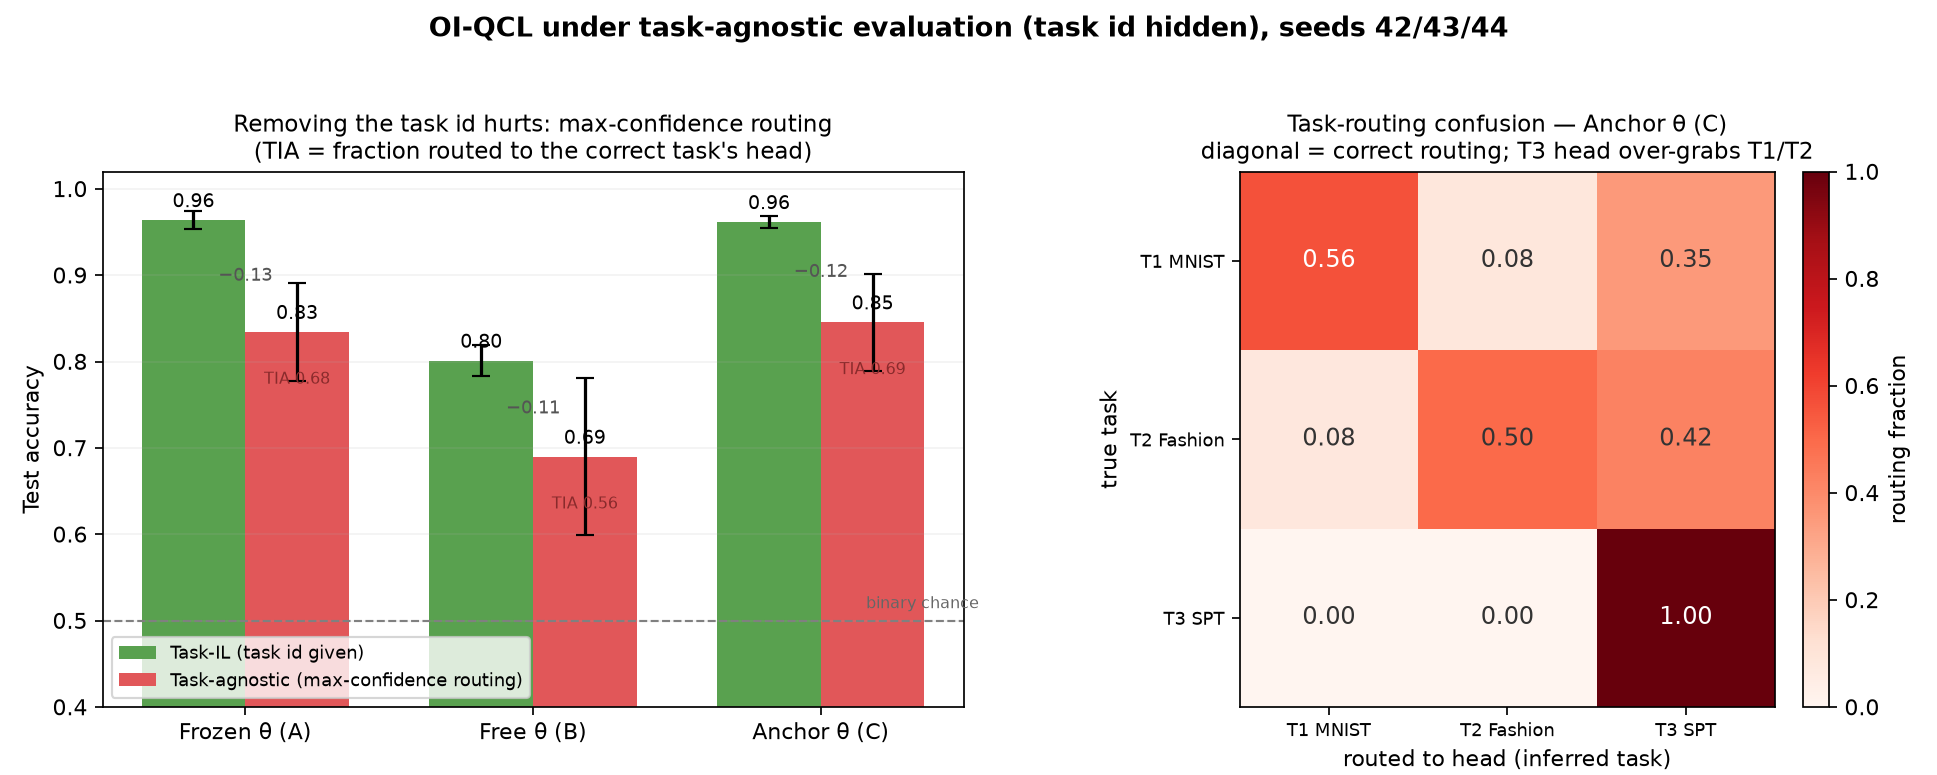
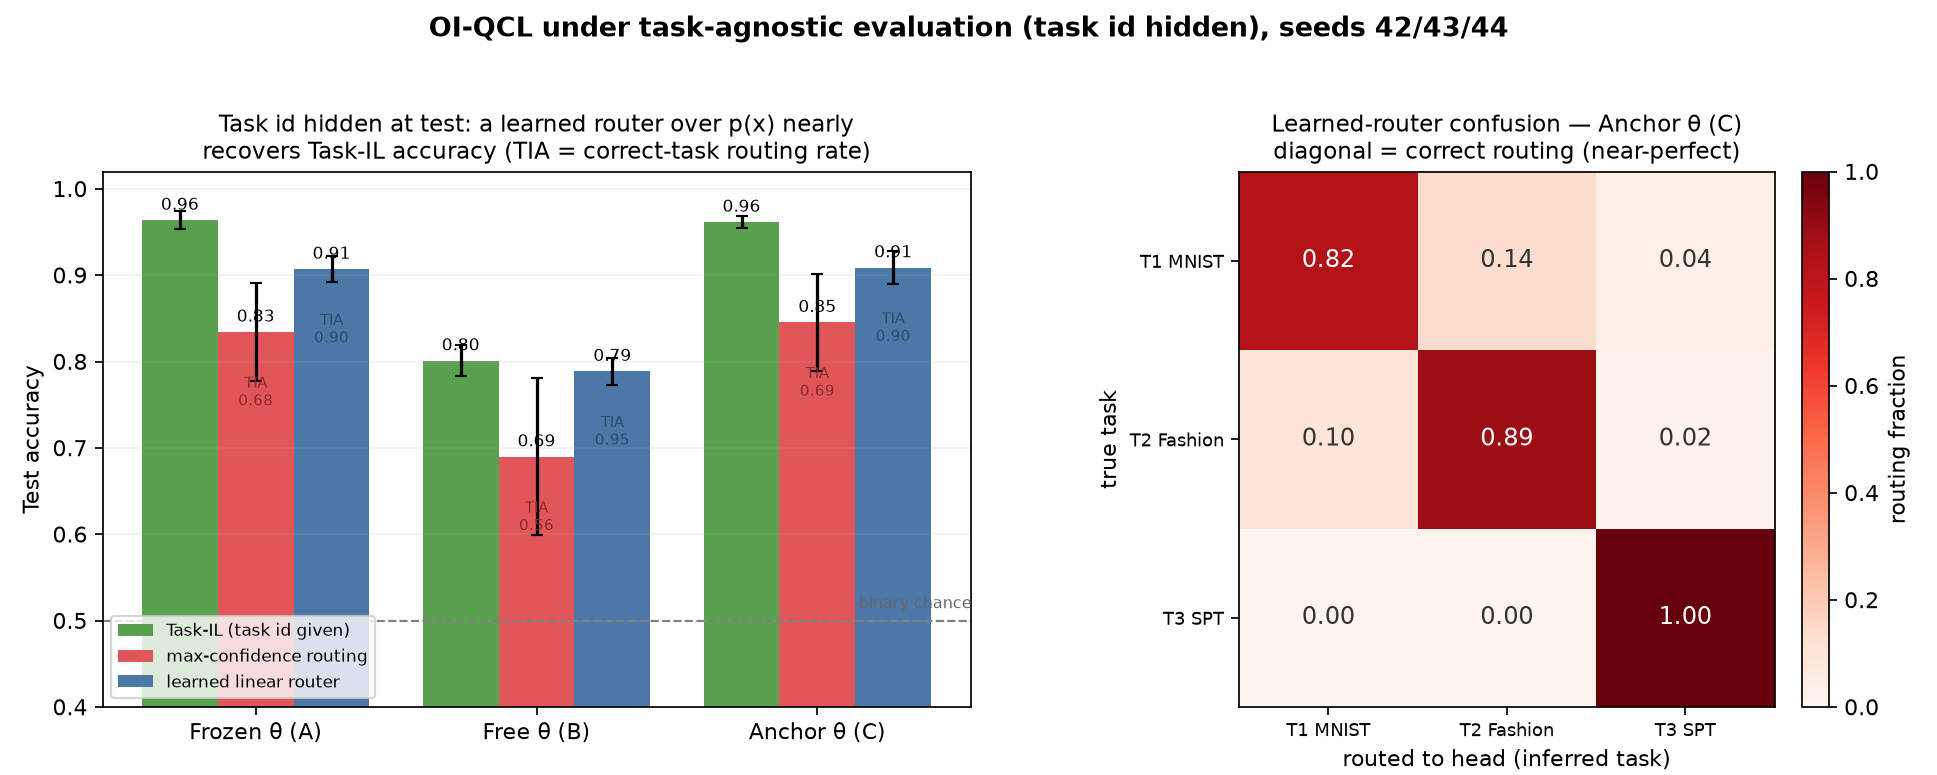
experiment(e014): learned linear router recovers most task-agnostic accuracy
Add a dedicated task classifier over p_theta(x) (trained on pooled train sets with
task labels, hidden at test) as an alternative to max-confidence routing. It nearly
closes the Task-IL gap: task-agnostic acc 0.91 vs 0.96 for A/C (router TIA 0.90,
near-diagonal confusion T1 .82/T2 .89/T3 1.0) vs max-confidence's 0.83-0.85 (TIA .68).
The task identity is decodable from the quantum measurement distribution -> Task-IL is
a convenience, not a hard requirement. Updated plot (3-way bars + router confusion)
and E014_FINDINGS.md.

diff --git a/scripts/plot_e014_task_inference.py b/scripts/plot_e014_task_inference.py
@@ -42,37 +42,42 @@ def main() -> None:
     fig, (axb, axc) = plt.subplots(1, 2, figsize=(12.5, 5.0),
                                    gridspec_kw={"width_ratios": [1.25, 1.0]})
 
-    # ---- Left: Task-IL vs task-agnostic accuracy ----
+    # ---- Left: Task-IL vs two task-agnostic routers ----
     x = np.arange(len(METHODS))
-    w = 0.36
+    w = 0.27
     known = [_stat(runs, m, "known_task_accuracy") for m in METHODS]
-    agn = [_stat(runs, m, "task_agnostic_accuracy") for m in METHODS]
-    tia = [_stat(runs, m, "task_inference_accuracy") for m in METHODS]
-    axb.bar(x - w / 2, [k[0] for k in known], w, yerr=[k[1] for k in known], capsize=4,
+    maxc = [_stat(runs, m, "task_agnostic_accuracy") for m in METHODS]
+    rout = [_stat(runs, m, "router_task_agnostic_accuracy") for m in METHODS]
+    maxc_tia = [_stat(runs, m, "task_inference_accuracy") for m in METHODS]
+    rout_tia = [_stat(runs, m, "router_task_inference_accuracy") for m in METHODS]
+    axb.bar(x - w, [k[0] for k in known], w, yerr=[k[1] for k in known], capsize=3,
             color="#59A14F", label="Task-IL (task id given)")
-    axb.bar(x + w / 2, [a[0] for a in agn], w, yerr=[a[1] for a in agn], capsize=4,
-            color="#E15759", label="Task-agnostic (max-confidence routing)")
-    for xi, (k, a, t) in enumerate(zip(known, agn, tia)):
-        axb.text(xi - w / 2, k[0] + 0.015, f"{k[0]:.2f}", ha="center", fontsize=9)
-        axb.text(xi + w / 2, a[0] + 0.015, f"{a[0]:.2f}", ha="center", fontsize=9)
-        axb.annotate(f"−{k[0]-a[0]:.2f}", (xi, (k[0] + a[0]) / 2), ha="center", va="center",
-                     fontsize=8.5, color="#555")
-        axb.text(xi + w / 2, a[0] - 0.06, f"TIA {t[0]:.2f}", ha="center", fontsize=7.5,
-                 color="#8a2b2c")
+    axb.bar(x, [a[0] for a in maxc], w, yerr=[a[1] for a in maxc], capsize=3,
+            color="#E15759", label="max-confidence routing")
+    axb.bar(x + w, [a[0] for a in rout], w, yerr=[a[1] for a in rout], capsize=3,
+            color="#4C78A8", label="learned linear router")
+    for xi in range(len(METHODS)):
+        axb.text(xi - w, known[xi][0] + 0.012, f"{known[xi][0]:.2f}", ha="center", fontsize=8)
+        axb.text(xi, maxc[xi][0] + 0.012, f"{maxc[xi][0]:.2f}", ha="center", fontsize=8)
+        axb.text(xi + w, rout[xi][0] + 0.012, f"{rout[xi][0]:.2f}", ha="center", fontsize=8)
+        axb.text(xi, maxc[xi][0] - 0.05, f"TIA\n{maxc_tia[xi][0]:.2f}", ha="center",
+                 fontsize=6.8, color="#8a2b2c", va="top")
+        axb.text(xi + w, rout[xi][0] - 0.05, f"TIA\n{rout_tia[xi][0]:.2f}", ha="center",
+                 fontsize=6.8, color="#2a4b6a", va="top")
     axb.axhline(0.5, ls="--", color="0.5", lw=1)
     axb.text(2.55, 0.51, "binary chance", fontsize=7.5, color="0.4", va="bottom", ha="right")
     axb.set_xticks(x)
     axb.set_xticklabels([LABELS[m] for m in METHODS])
     axb.set_ylabel("Test accuracy")
     axb.set_ylim(0.4, 1.02)
-    axb.set_title("Removing the task id hurts: max-confidence routing\n"
-                  "(TIA = fraction routed to the correct task's head)", fontsize=10.5)
-    axb.legend(loc="lower left", fontsize=8.5)
+    axb.set_title("Task id hidden at test: a learned router over p(x) nearly\n"
+                  "recovers Task-IL accuracy (TIA = correct-task routing rate)", fontsize=10.5)
+    axb.legend(loc="lower left", fontsize=8)
     axb.grid(axis="y", alpha=0.15)
 
-    # ---- Right: routing confusion matrix (anchor, mean over seeds, row-normalized) ----
+    # ---- Right: learned-router confusion (anchor, mean over seeds, row-normalized) ----
     method = "anchor_head"
-    conf = np.mean([np.array(r["methods"][method]["task_confusion"], float) for r in runs], axis=0)
+    conf = np.mean([np.array(r["methods"][method]["router_confusion"], float) for r in runs], axis=0)
     conf_norm = conf / conf.sum(axis=1, keepdims=True)
     im = axc.imshow(conf_norm, cmap="Reds", vmin=0, vmax=1, aspect="equal")
     for i in range(3):
@@ -83,8 +88,8 @@ def main() -> None:
     axc.set_yticks(range(3), TASK_TICKS, fontsize=8.5)
     axc.set_xlabel("routed to head (inferred task)")
     axc.set_ylabel("true task")
-    axc.set_title(f"Task-routing confusion — {LABELS[method]}\n"
-                  "diagonal = correct routing; T3 head over-grabs T1/T2", fontsize=10.5)
+    axc.set_title(f"Learned-router confusion — {LABELS[method]}\n"
+                  "diagonal = correct routing (near-perfect)", fontsize=10.5)
     fig.colorbar(im, ax=axc, fraction=0.046, pad=0.04, label="routing fraction")
 
     fig.suptitle("OI-QCL under task-agnostic evaluation (task id hidden), seeds 42/43/44",

diff --git a/experiments/e014_task_inference.py b/experiments/e014_task_inference.py
@@ -35,6 +35,8 @@ import numpy as np
 ROOT = Path(__file__).resolve().parents[1]
 sys.path.insert(0, str(ROOT))
 
+from sklearn.linear_model import LogisticRegression  # noqa: E402
+
 from src.continual_data import load_two_tasks  # noqa: E402
 from src.e014_oiqcl import (  # noqa: E402
     _labels_to_classes,
@@ -96,17 +98,37 @@ def _evaluate(probs_qnode, weights, heads, tasks):
     t_hat = conf.argmax(axis=0)                 # inferred task = most confident head
     routed_pred = preds[t_hat, np.arange(len(P))]
 
+    # Alternative router: a dedicated linear task classifier over p_theta, trained on the
+    # pooled TRAIN sets with task labels (task id is known at train time, hidden at test).
+    P_tr_pool = np.concatenate([probs_features(probs_qnode, weights, t.X_train) for t in tasks])
+    tr_task = np.concatenate([np.full(len(t.X_train), j) for j, t in enumerate(tasks)])
+    router = LogisticRegression(max_iter=2000, C=1.0)
+    router.fit(P_tr_pool, tr_task)
+    t_hat_r = router.predict(P)
+    routed_pred_r = preds[t_hat_r, np.arange(len(P))]
+
     known = float(np.mean([
         heads[j].accuracy(probs_features(probs_qnode, weights, tasks[j].X_test), tasks[j].y_test)
         for j in range(T)]))
+
+    def _confusion(t_hat_arr):
+        return [[int(np.sum((true_task == a) & (t_hat_arr == b))) for b in range(T)]
+                for a in range(T)]
+
     return {
         "known_task_accuracy": round(known, 4),
+        # max-confidence routing
         "task_inference_accuracy": round(float(np.mean(t_hat == true_task)), 4),
         "task_agnostic_accuracy": round(float(np.mean(routed_pred == true_cls)), 4),
         "per_task_task_inference": {
             TASK_KEYS[j]: round(float(np.mean(t_hat[true_task == j] == j)), 4) for j in range(T)},
-        "task_confusion": [[int(np.sum((true_task == a) & (t_hat == b))) for b in range(T)]
-                           for a in range(T)],
+        "task_confusion": _confusion(t_hat),
+        # learned linear router
+        "router_task_inference_accuracy": round(float(np.mean(t_hat_r == true_task)), 4),
+        "router_task_agnostic_accuracy": round(float(np.mean(routed_pred_r == true_cls)), 4),
+        "router_per_task_task_inference": {
+            TASK_KEYS[j]: round(float(np.mean(t_hat_r[true_task == j] == j)), 4) for j in range(T)},
+        "router_confusion": _confusion(t_hat_r),
     }
 
 
@@ -126,8 +148,10 @@ def run(*, layers=12, lr=0.05, epochs=20, alpha=5.0, n_train=800, n_test=200,
         if verbose:
             r = methods[m]
             print(f"    known(Task-IL)={r['known_task_accuracy']:.3f}  "
-                  f"TIA={r['task_inference_accuracy']:.3f}  "
-                  f"agnostic={r['task_agnostic_accuracy']:.3f}", flush=True)
+                  f"| max-conf: TIA={r['task_inference_accuracy']:.3f} "
+                  f"acc={r['task_agnostic_accuracy']:.3f}  "
+                  f"| router: TIA={r['router_task_inference_accuracy']:.3f} "
+                  f"acc={r['router_task_agnostic_accuracy']:.3f}", flush=True)
     return {
         "schema_version": SCHEMA_VERSION, "experiment": "e014_task_inference",
         "created_at_utc": datetime.now(timezone.utc).isoformat(),

diff --git a/E014_FINDINGS.md b/E014_FINDINGS.md
@@ -122,24 +122,29 @@ learning curves.
 ## Task-agnostic evaluation — the cost of removing the task id
 
 OI-QCL is Task-IL: the head is chosen by a given task id. To quantify that assumption we hide
-the id and infer it by **max-confidence routing** — run every frozen head on the pooled test
-set, pick the most confident, predict with it (`experiments/e014_task_inference.py`,
-`figures/e014_task_inference.png`). Mean over seeds 42/43/44:
+the id and infer it two ways (`experiments/e014_task_inference.py`,
+`figures/e014_task_inference.png`), mean over seeds 42/43/44:
 
-| method | Task-IL acc (id given) | task-agnostic acc | task-inference acc (TIA) |
+1. **max-confidence routing** — run every frozen head, pick the most confident, predict with it.
+2. **learned linear router** — a logistic task classifier over `p_θ(x)`, trained on the pooled
+   TRAIN sets with task labels (task id known at train, hidden at test), then routes each test
+   sample to the predicted task's head.
+
+| method | Task-IL acc (id given) | max-conf acc (TIA) | **router acc (TIA)** |
 |---|---:|---:|---:|
-| frozen (A) | 0.964 | 0.834 | 0.676 |
-| free (B) | 0.801 | 0.690 | 0.562 |
-| anchor (C) | 0.962 | 0.846 | 0.687 |
+| frozen (A) | 0.964 | 0.834 (0.68) | **0.907 (0.90)** |
+| free (B) | 0.801 | 0.690 (0.56) | 0.789 (0.95) |
+| anchor (C) | 0.962 | 0.846 (0.69) | **0.909 (0.90)** |
 
-Removing the id costs ~0.12 accuracy; TIA ≈ 0.68 (chance 0.33). The routing confusion matrix
-shows why: **T3 (SPT, a quantum-native distribution) routes perfectly (1.00), but its
-over-confident head grabs ~35–42% of MNIST/Fashion** (max-confidence measures distance to a
-head's own boundary, not task membership, so it is fooled by out-of-distribution
-over-confidence). Takeaways: (i) when task distributions differ enough, `p_θ(x)` already
-carries the task identity; (ii) similar tasks need a better router (a dedicated task classifier
-over `p_θ(x)`, or temperature/OOD-calibrated confidence) — untested here. This is the honest
-boundary of the Task-IL result.
+**Max-confidence is a bad router** (TIA ≈ 0.68; its confusion matrix shows the over-confident
+SPT head grabbing 35–42% of MNIST/Fashion — max-confidence measures distance to a head's own
+boundary, not task membership). **A dedicated linear router over `p_θ(x)` nearly closes the
+gap**: task-agnostic accuracy 0.91 vs Task-IL 0.96 for A/C (−0.05), routing accuracy 0.90 with
+a near-diagonal confusion matrix (T1 0.82 / T2 0.89 / T3 1.00). So the task identity **is
+decodable from the quantum measurement distribution** — the Task-IL assumption is a convenience,
+not a hard requirement, and a lightweight classical router removes most of it. (Variant B caps
+at 0.79 because its heads are already degraded by representation drift, not by routing — its
+router TIA is the best at 0.95.)
 
 ## Claim boundaries
 
